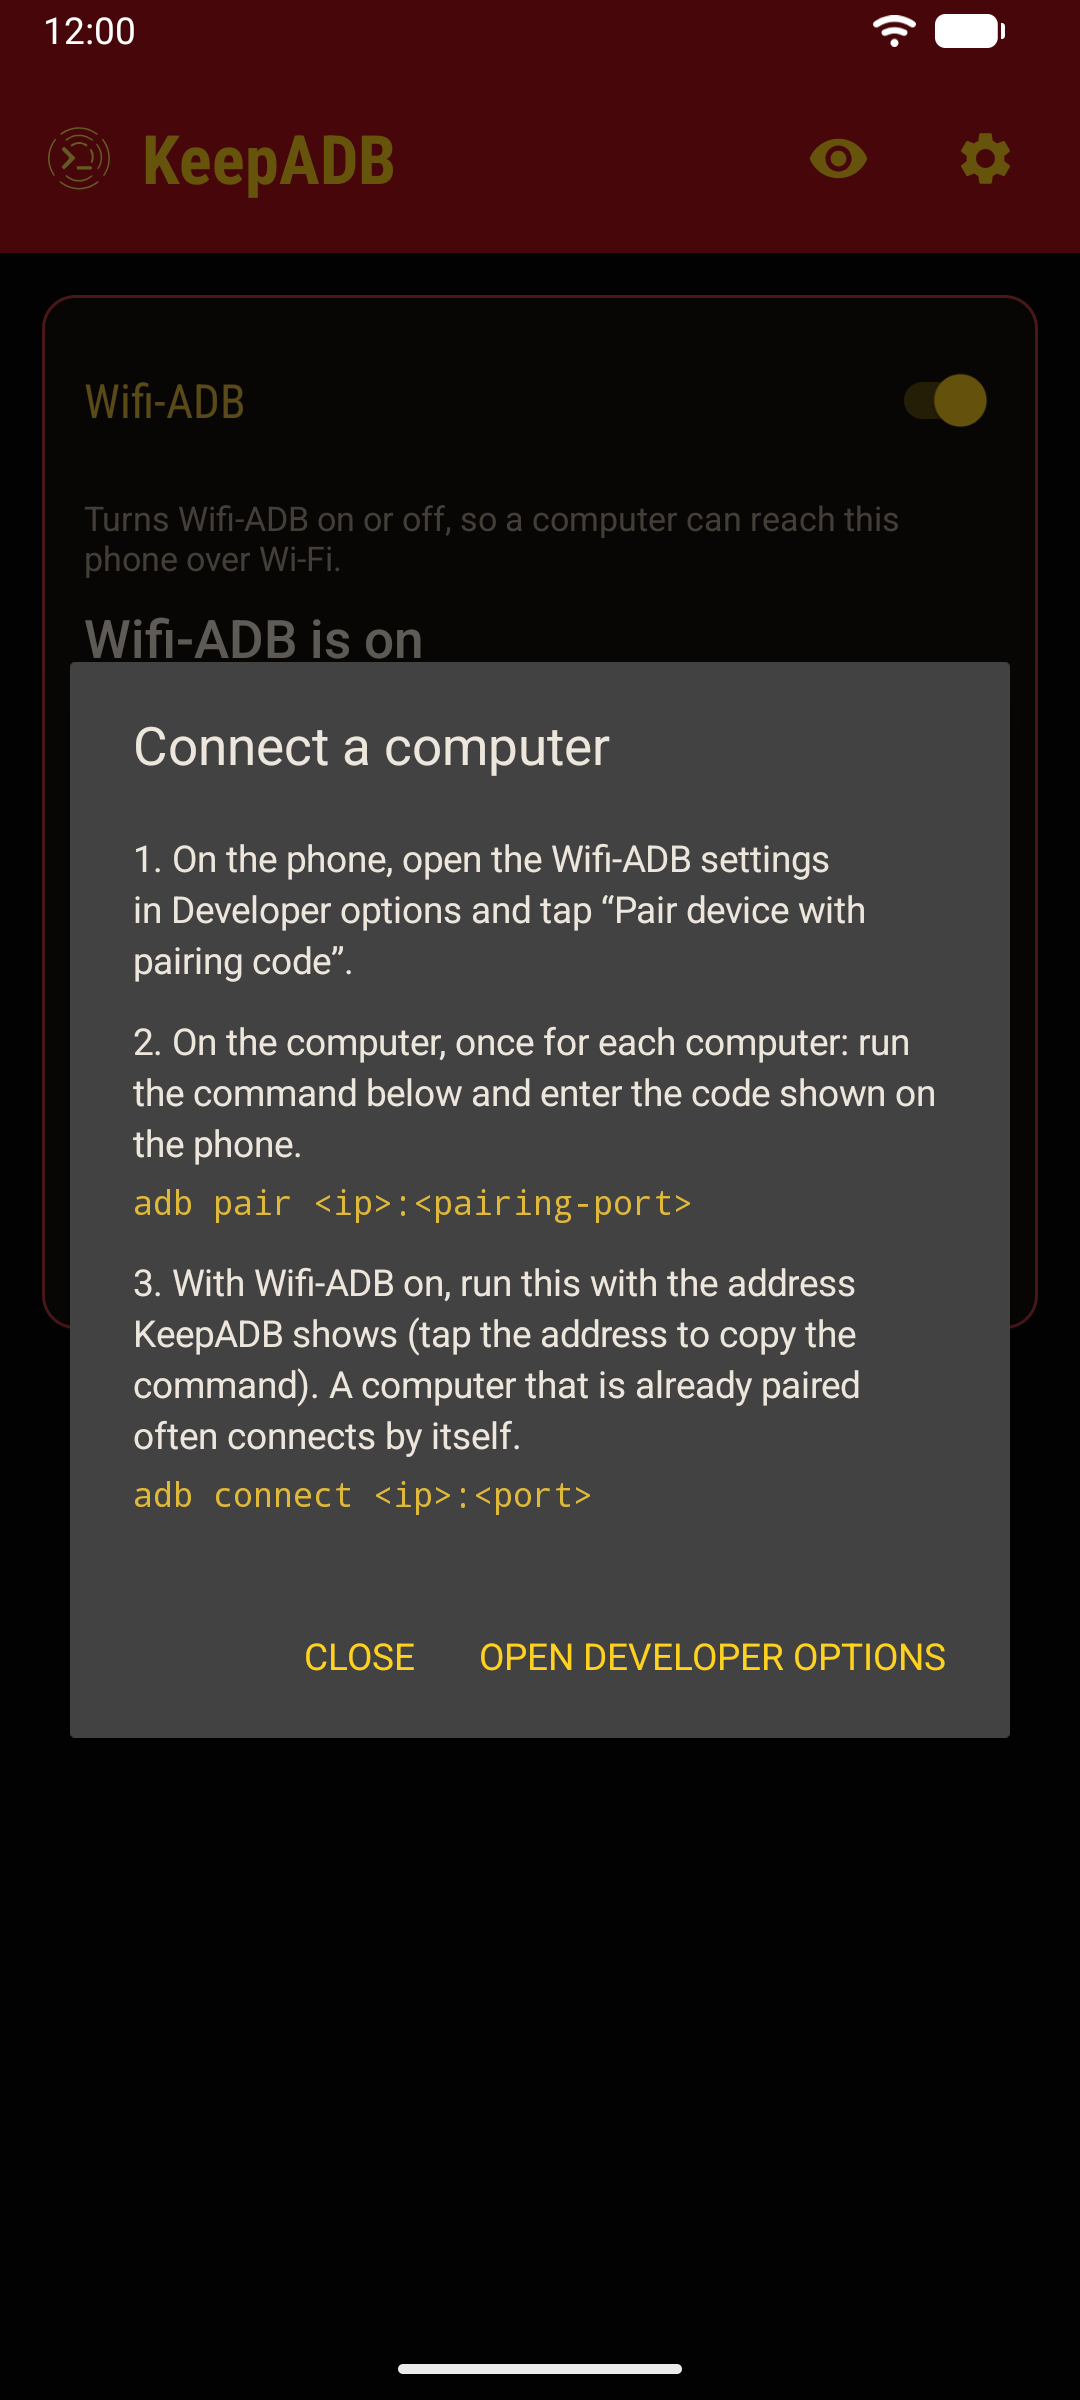
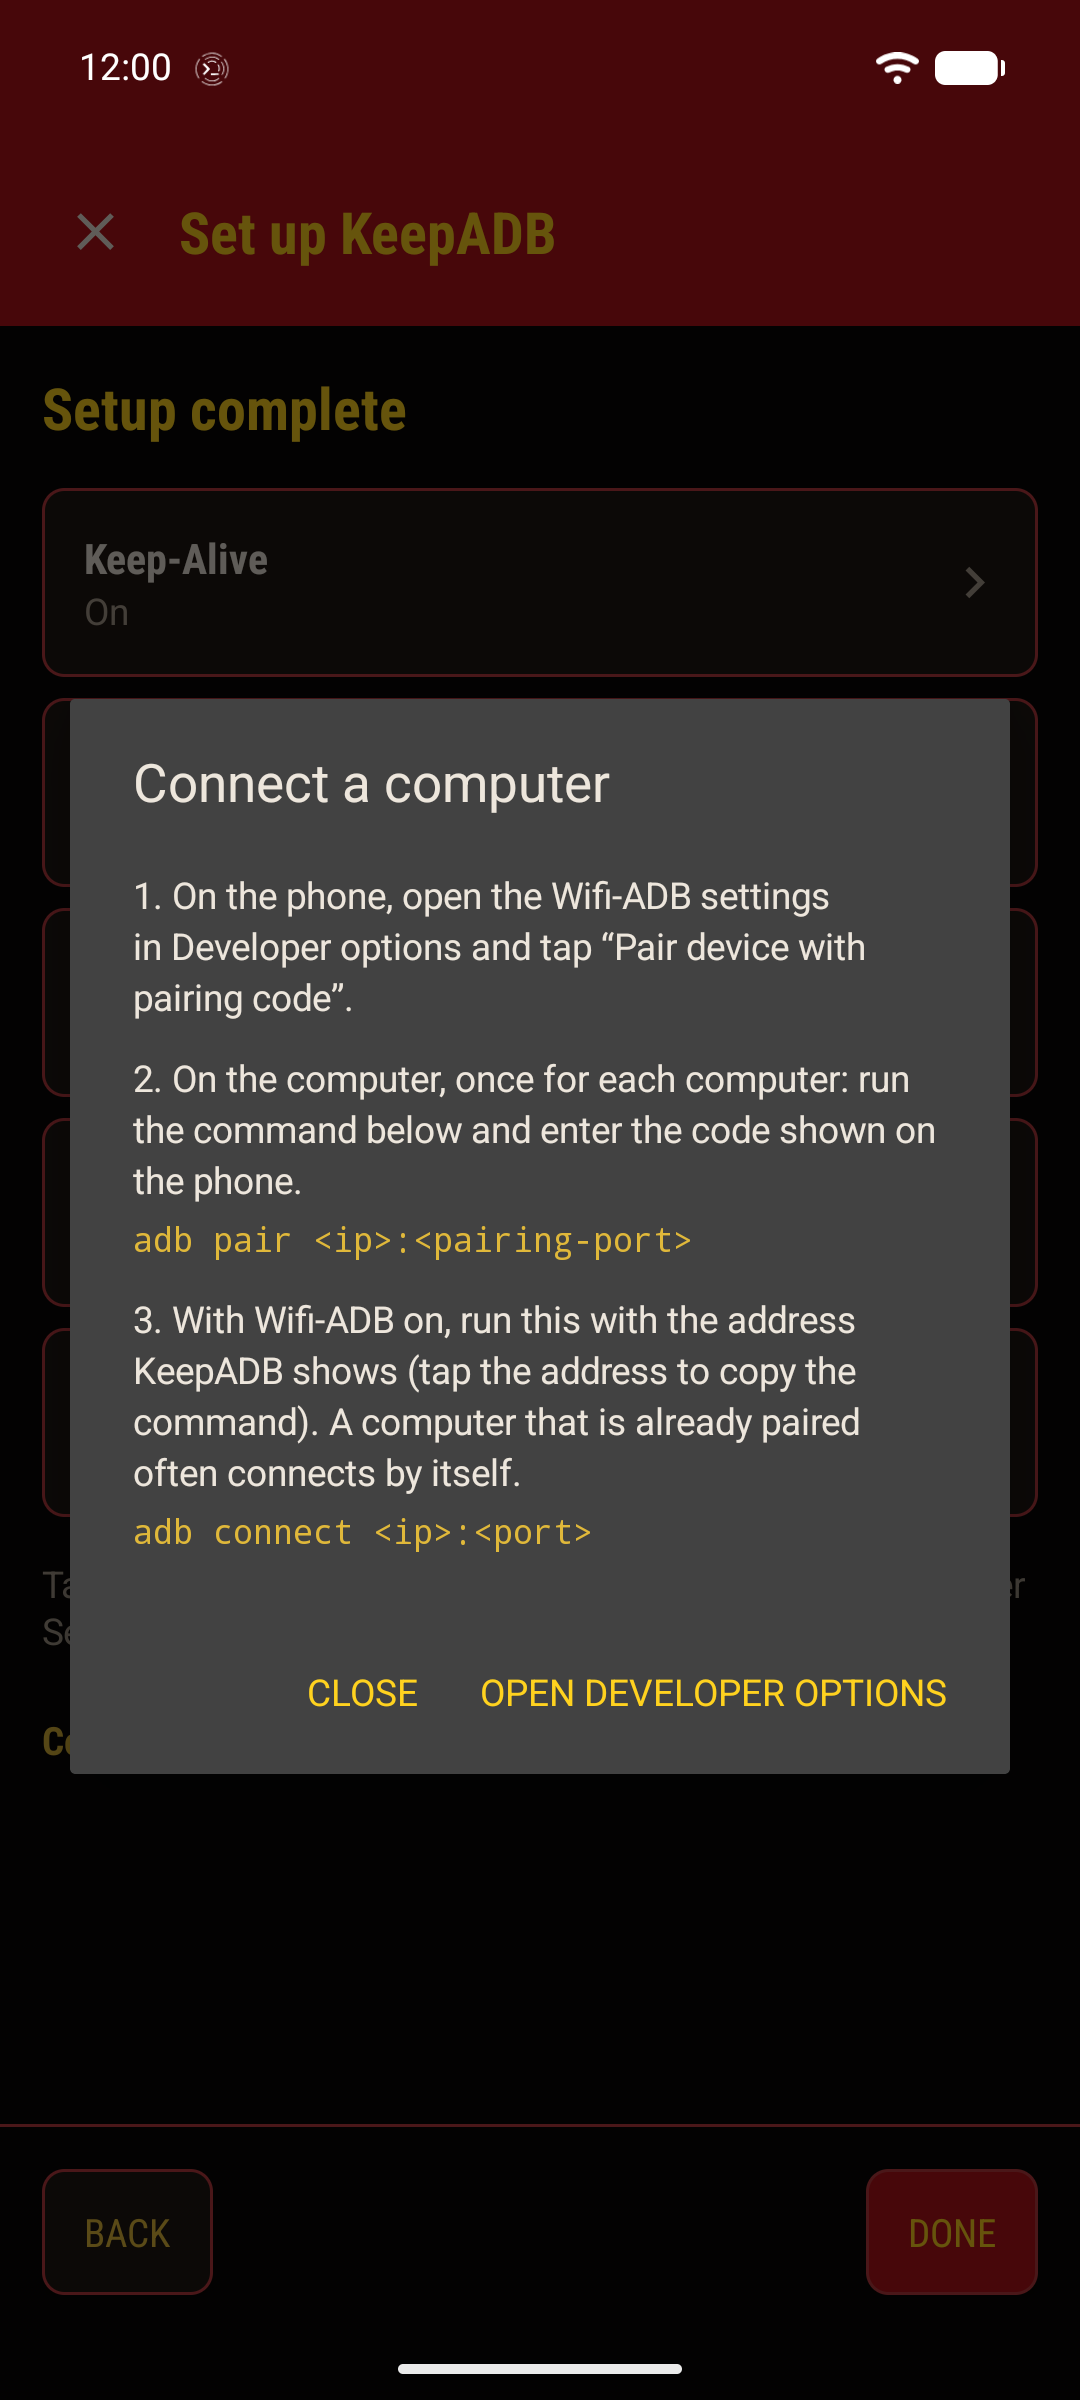
docs(store): retake screenshots on Android 17 with the roteson.de theme (#991)
Replace the ten F-Droid phone screenshots with a consistent set taken with
the signed 1.14.1 release on Android 17 (API 37, 1080x2400): roteson.de
wallpaper, red Material You palette, dark mode, demo status bar at 12:00.
Adds the home screen widgets and the self-pairing code entry, drops the
old demo leftovers. Metadata only, no version change.

diff --git a/CHANGELOG.md b/CHANGELOG.md
@@ -23,6 +23,11 @@ record development snapshots; their dates describe implementation history, not p
 A version is released only when a corresponding tag or public release exists. `1.4.1` and `1.4.2`
 are retrospective issue-version records and were never published as separate releases.
 
+## [Unreleased]
+
+### Documentation
+- New store screenshots (#991): the ten images in `fastlane/metadata/android/en-US/images/phoneScreenshots/` were retaken with the signed 1.14.1 release on Android 17 (API 37, 1080×2400) in one consistent system look (roteson.de wallpaper, red Material You palette, dark mode, demo status bar at 12:00). New in the set: the home screen with both widgets and the self-pairing code entry in the notification; demo leftovers such as `AndroidWifi` and the `10.0.2.2` webhook URL are gone. Metadata only, no version change; F-Droid shows them with the next stable release.
+
 ## [1.14.1] - 2026-11-17
 
 ### Added
